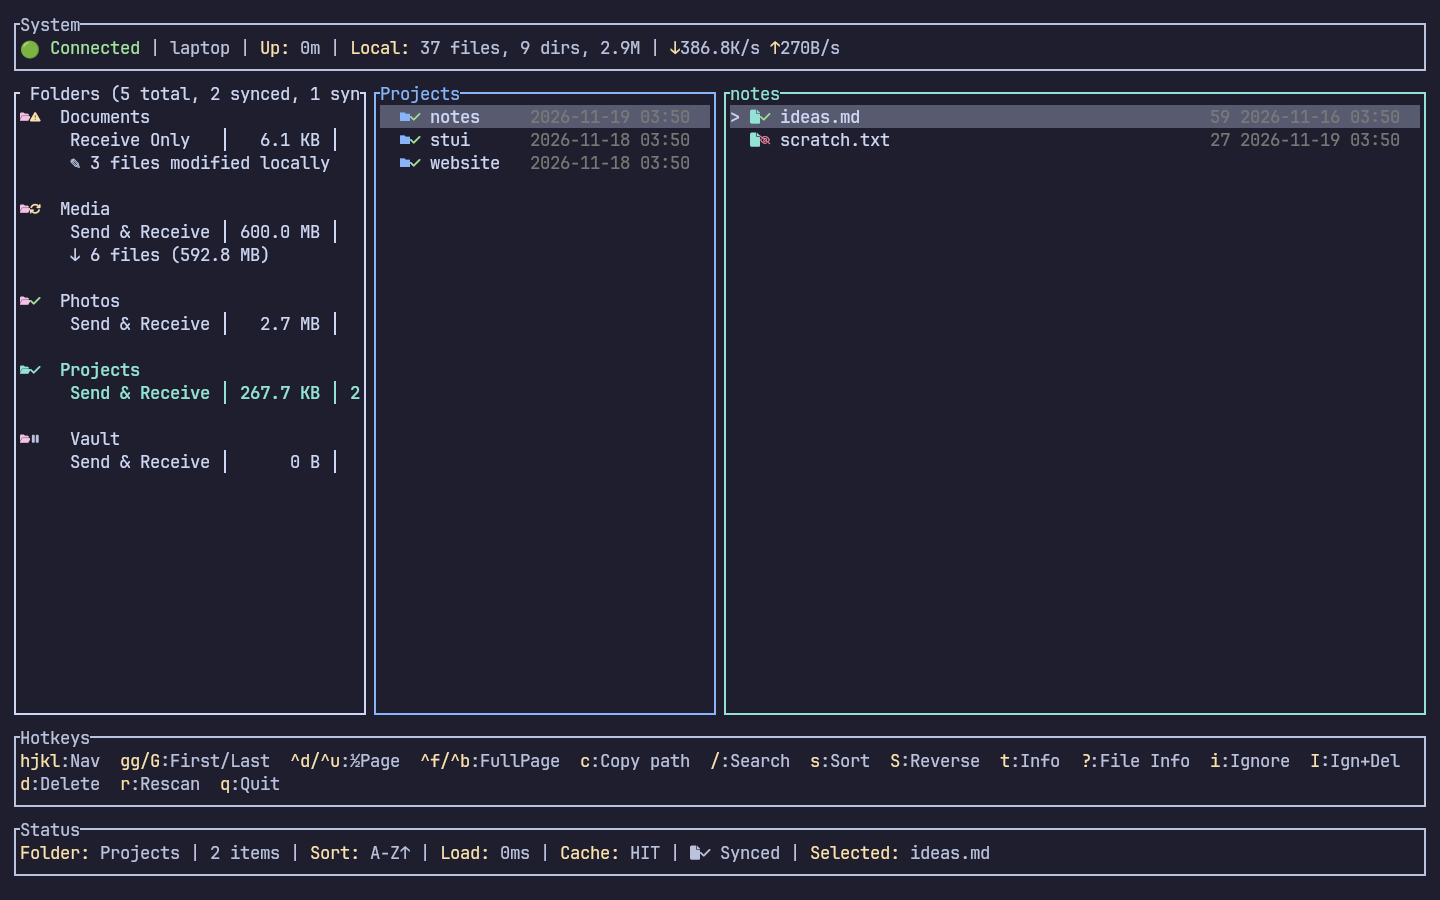
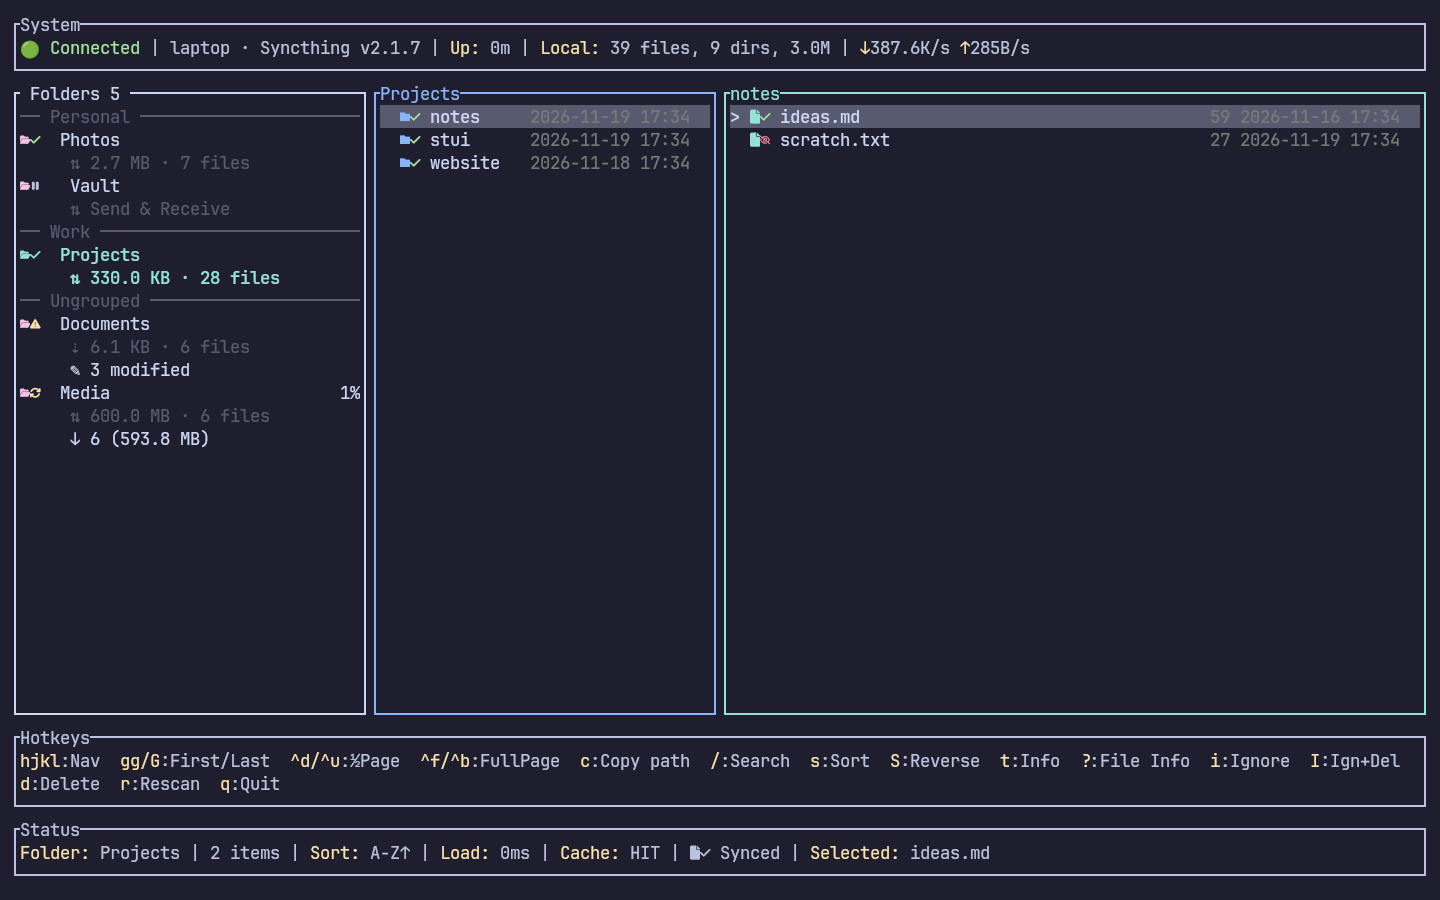
chore: Run the demo on any Syncthing tag, seed folder groups, re-record assets

diff --git a/demo/README.md b/demo/README.md
@@ -32,6 +32,7 @@ demo/record.sh             # full run: cluster up, 7 stills, hero GIF, verify, c
 | `--reuse` | Skip `up.sh` if the laptop API already answers (implies `--keep`) |
 | `STUI_BIN=path` | Record a different binary |
 | `GIF_FPS`, `GIF_QUALITY` | gifski settings (defaults 15 and 80). The GIF must stay under 8 MiB |
+| `DEMO_SYNCTHING_TAG=tag` | Syncthing image tag for both nodes (default `2.1.7`), read by `up.sh`. Use e.g. `2.0` to check behavior on Syncthing without folder groups |
 
 `record.sh` checks that stills are 1440x900 and that the GIF is under the size cap. The shot list and the hero's key sequences live in `shots.sh`. The look lives in `kitty.conf` (font, colors) and `sway.conf` (resolution).
 
@@ -85,7 +86,7 @@ Run each session inside a single `bash -c`. Background processes (sway, kitty, w
 
 ## Seeded data
 
-`demo/stui.yaml` sets `vim_mode: true`, and folders sort A-Z:
+`demo/stui.yaml` sets `vim_mode: true`, and files sort A-Z. On Syncthing 2.1+ the laptop's folders are grouped: Personal (Photos, Vault), Work (Projects), with Documents and Media ungrouped, so the folder list shows them in that order:
 
 | Folder | State on the laptop |
 |---|---|
@@ -100,6 +101,7 @@ Run each session inside a single `bash -c`. Background processes (sway, kitty, w
 ## Gotchas
 
 - A paused folder can't be browsed, so it gets no preview panel.
+- Syncthing 2.0 accepts a PATCH of `group` with 200 and ignores it, since the field doesn't exist before 2.1.
 - Timestamps use the host's timezone (`DEMO_TZ`, passed into the containers).
 - `demo/stui.yaml` uses `image_protocol: auto`. The session drops the host terminal's identity variables (`KONSOLE_*`, `TERM_PROGRAM`, `TMUX`, ...) so detection sees kitty, not the terminal you launched the script from.
 - Konsole can be driven too: run it in the headless sway with `QT_QPA_PLATFORM=wayland` and send keys with `wtype` (one `wtype` call per sequence, using `-s` for pauses; separate calls drop keys). `qdbus6 org.kde.konsole-<pid> /Sessions/1 getAllDisplayedText` dumps the screen text.
